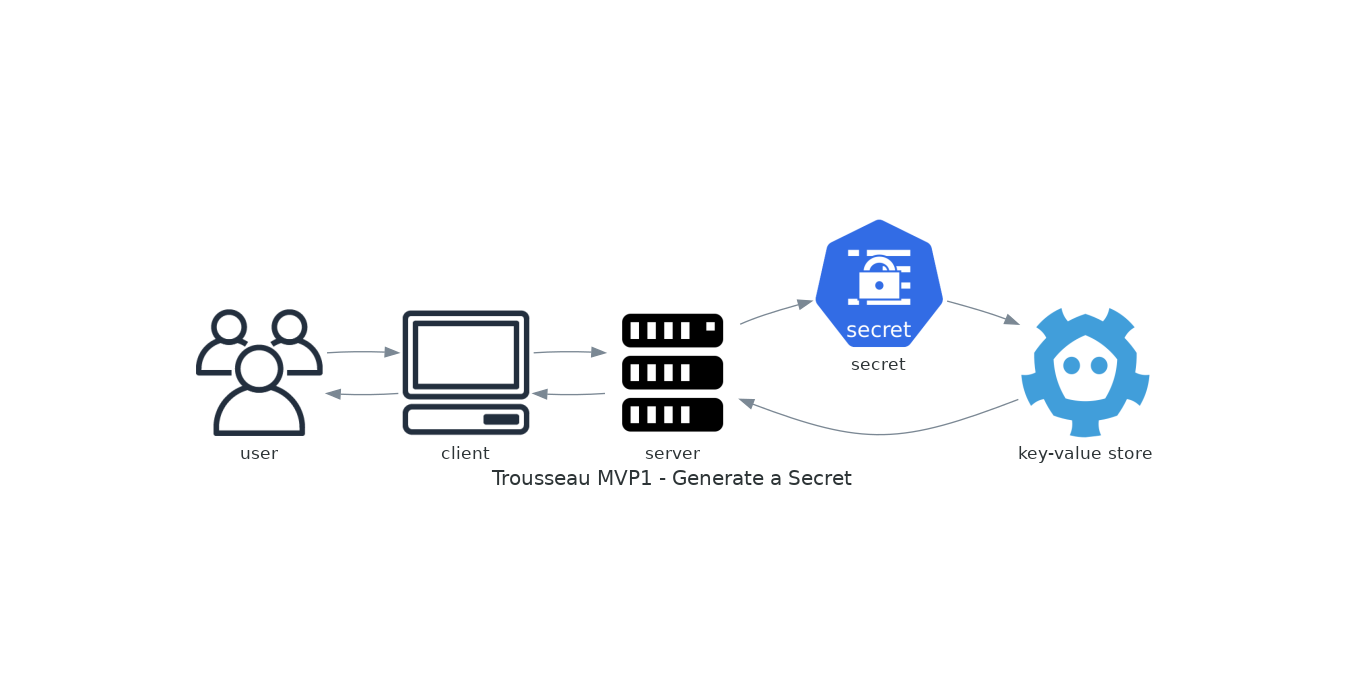
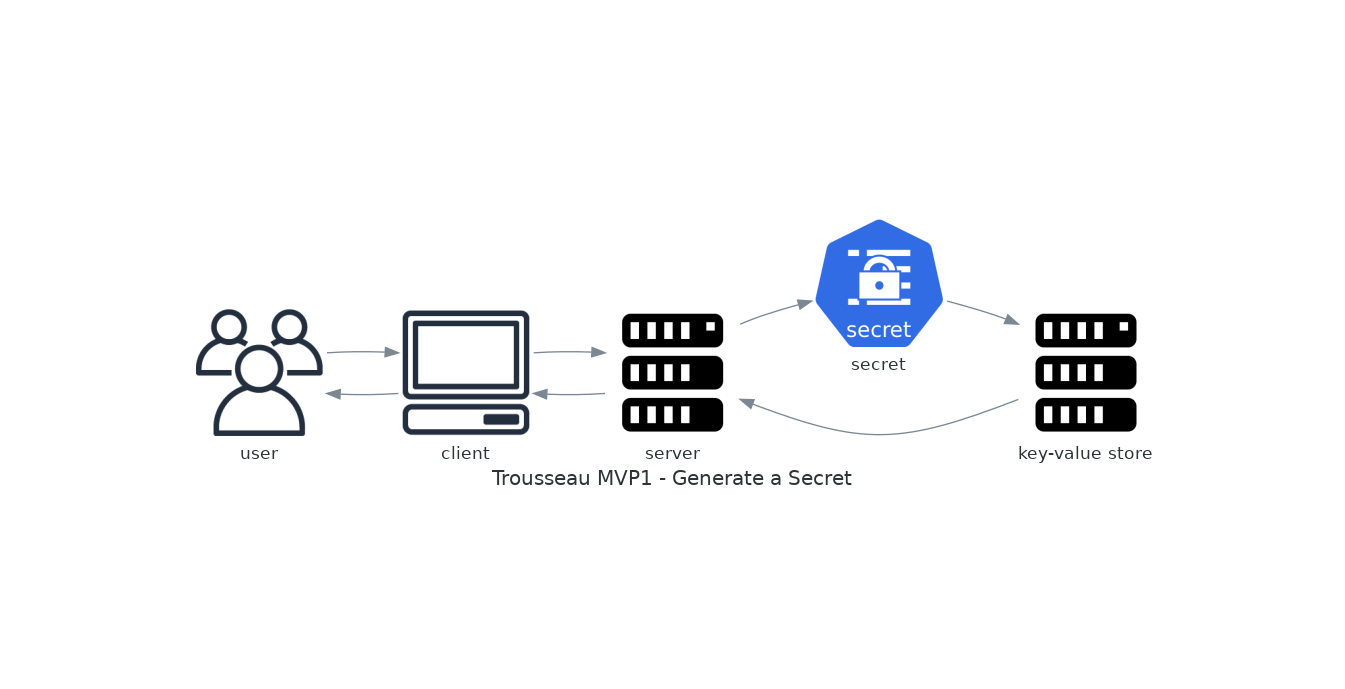
working on MVP1 architecture

Changed region(s): [[0.7494, 0.4267, 0.8743, 0.6401]]

diff --git a/assets/diagrams/mvp1_generate_secrets.py b/assets/diagrams/mvp1_generate_secrets.py
@@ -17,7 +17,7 @@ with Diagram("Trousseau MVP1 - Generate a Secret", show=False, direction="LR", g
     cli = Client("client")
     secret = Secret("secret")
     server = Server("server")
-    keyvalue = Etcd("key-value store")
+    keyvalue = Server("key-value store")
 
     user >> cli >> server >> secret >> keyvalue
     keyvalue << server << cli << user
